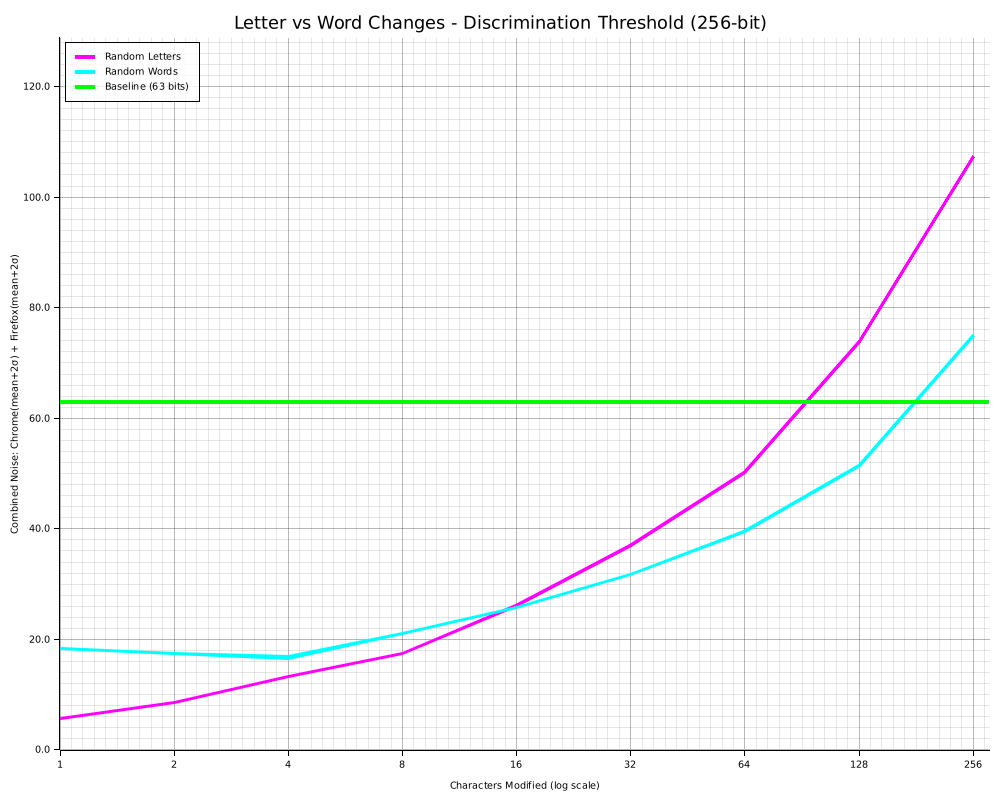
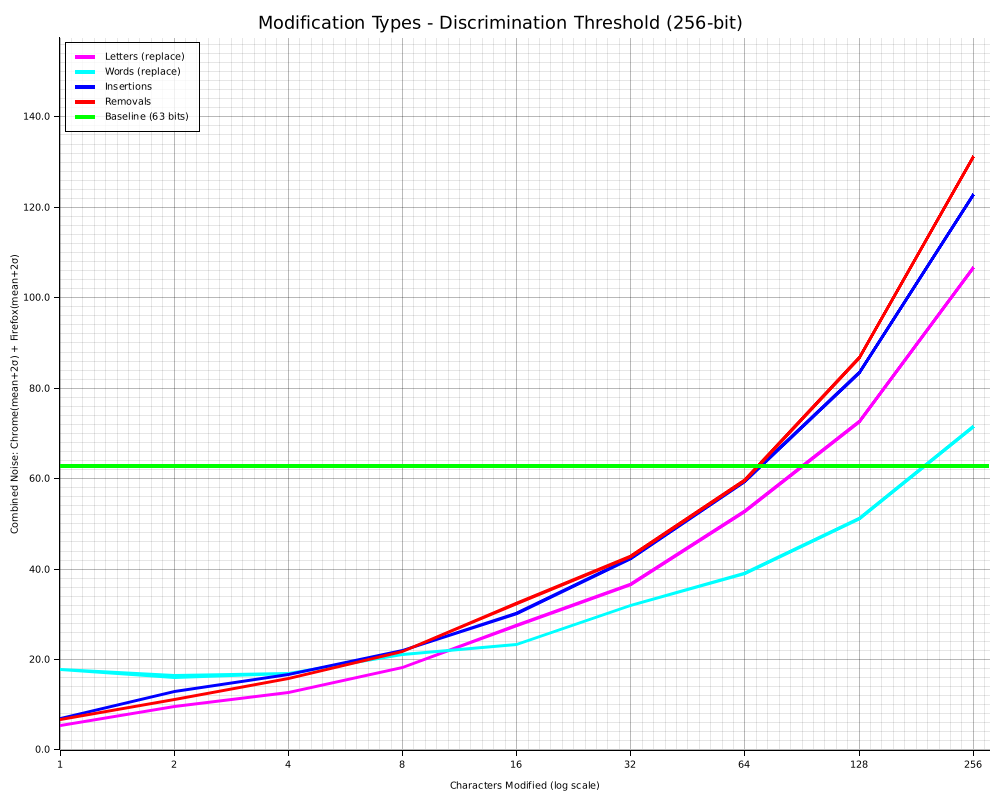
Add insertion and removal modification tests
Compare 4 modification types for nilsimsa discrimination limits:
- Letters (replace): scattered single-char replacements
- Words (replace): concentrated field replacements (2x locality benefit)
- Insertions: random char insertions (most sensitive, ~16 chars at 64-bit)
- Removals: random char deletions (similar to letter replacements)

Insertions cause the most hash change per character, likely because they
shift the entire document structure. Word replacements remain most tolerant.

Changed region(s): [[0.031, 0.0, 0.992, 0.9375]]

diff --git a/src/main.rs b/src/main.rs
@@ -102,6 +102,44 @@ fn main() {
     let word_limit_256 = find_discrimination_limit(&word_chrome_256, &word_firefox_256, baseline_256);
     println!("Safe limit (256-bit, words): ~{} chars\n", word_limit_256);
 
+    // ==================== RANDOM INSERTION TEST ====================
+    println!("============================================================");
+    println!("=== TEST 3: RANDOM INSERTIONS ===");
+    println!("============================================================\n");
+
+    println!("--- 64-bit Random Insert ---");
+    let insert_chrome_64 = run_analysis(&chrome_long, NUM_TRIALS, &mod_counts, "Chrome", ModType::Insert, HashSize::Bit64);
+    let insert_firefox_64 = run_analysis(&firefox_long, NUM_TRIALS, &mod_counts, "Firefox", ModType::Insert, HashSize::Bit64);
+    print_results_table(&insert_chrome_64, &insert_firefox_64, baseline_64);
+    let insert_limit_64 = find_discrimination_limit(&insert_chrome_64, &insert_firefox_64, baseline_64);
+    println!("Safe limit (64-bit, insert): ~{} chars\n", insert_limit_64);
+
+    println!("--- 256-bit Random Insert ---");
+    let insert_chrome_256 = run_analysis(&chrome_long, NUM_TRIALS, &mod_counts, "Chrome", ModType::Insert, HashSize::Bit256);
+    let insert_firefox_256 = run_analysis(&firefox_long, NUM_TRIALS, &mod_counts, "Firefox", ModType::Insert, HashSize::Bit256);
+    print_results_table(&insert_chrome_256, &insert_firefox_256, baseline_256);
+    let insert_limit_256 = find_discrimination_limit(&insert_chrome_256, &insert_firefox_256, baseline_256);
+    println!("Safe limit (256-bit, insert): ~{} chars\n", insert_limit_256);
+
+    // ==================== RANDOM REMOVAL TEST ====================
+    println!("============================================================");
+    println!("=== TEST 4: RANDOM REMOVALS ===");
+    println!("============================================================\n");
+
+    println!("--- 64-bit Random Remove ---");
+    let remove_chrome_64 = run_analysis(&chrome_long, NUM_TRIALS, &mod_counts, "Chrome", ModType::Remove, HashSize::Bit64);
+    let remove_firefox_64 = run_analysis(&firefox_long, NUM_TRIALS, &mod_counts, "Firefox", ModType::Remove, HashSize::Bit64);
+    print_results_table(&remove_chrome_64, &remove_firefox_64, baseline_64);
+    let remove_limit_64 = find_discrimination_limit(&remove_chrome_64, &remove_firefox_64, baseline_64);
+    println!("Safe limit (64-bit, remove): ~{} chars\n", remove_limit_64);
+
+    println!("--- 256-bit Random Remove ---");
+    let remove_chrome_256 = run_analysis(&chrome_long, NUM_TRIALS, &mod_counts, "Chrome", ModType::Remove, HashSize::Bit256);
+    let remove_firefox_256 = run_analysis(&firefox_long, NUM_TRIALS, &mod_counts, "Firefox", ModType::Remove, HashSize::Bit256);
+    print_results_table(&remove_chrome_256, &remove_firefox_256, baseline_256);
+    let remove_limit_256 = find_discrimination_limit(&remove_chrome_256, &remove_firefox_256, baseline_256);
+    println!("Safe limit (256-bit, remove): ~{} chars\n", remove_limit_256);
+
     // ==================== SUMMARY ====================
     println!("============================================================");
     println!("=== SUMMARY ===");
@@ -109,24 +147,23 @@ fn main() {
     println!("                    64-bit      256-bit");
     println!("Random Letters:     ~{:<6}     ~{:<6} chars", letter_limit_64, letter_limit_256);
     println!("Random Words:       ~{:<6}     ~{:<6} chars", word_limit_64, word_limit_256);
-    if word_limit_64 > letter_limit_64 || word_limit_256 > letter_limit_256 {
-        println!("\n=> Word changes show LOCALITY BENEFIT (more tolerant of concentrated changes)");
-    } else if word_limit_64 < letter_limit_64 || word_limit_256 < letter_limit_256 {
-        println!("\n=> Letter changes show better tolerance (no locality benefit)");
-    } else {
-        println!("\n=> No significant difference (nilsimsa treats both similarly)");
-    }
+    println!("Random Inserts:     ~{:<6}     ~{:<6} chars", insert_limit_64, insert_limit_256);
+    println!("Random Removes:     ~{:<6}     ~{:<6} chars", remove_limit_64, remove_limit_256);
 
     // Generate comparison plots
-    generate_comparison_plot(
+    generate_all_comparison_plot(
         &letter_chrome_64, &letter_firefox_64,
         &word_chrome_64, &word_firefox_64,
+        &insert_chrome_64, &insert_firefox_64,
+        &remove_chrome_64, &remove_firefox_64,
         baseline_64, "discrimination_64bit.png", 64
     ).expect("Failed to generate 64-bit plot");
 
-    generate_comparison_plot(
+    generate_all_comparison_plot(
         &letter_chrome_256, &letter_firefox_256,
         &word_chrome_256, &word_firefox_256,
+        &insert_chrome_256, &insert_firefox_256,
+        &remove_chrome_256, &remove_firefox_256,
         baseline_256, "discrimination_256bit.png", 256
     ).expect("Failed to generate 256-bit plot");
 
@@ -134,7 +171,7 @@ fn main() {
 }
 
 #[derive(Clone, Copy)]
-enum ModType { Letter, Word }
+enum ModType { Letter, Word, Insert, Remove }
 
 #[derive(Clone, Copy)]
 enum HashSize { Bit64, Bit256 }
@@ -148,7 +185,12 @@ struct Stats {
 
 fn run_analysis(input: &str, num_trials: usize, mod_counts: &[usize], name: &str,
                 mod_type: ModType, hash_size: HashSize) -> Vec<Stats> {
-    let type_str = match mod_type { ModType::Letter => "letter", ModType::Word => "word" };
+    let type_str = match mod_type {
+        ModType::Letter => "letter",
+        ModType::Word => "word",
+        ModType::Insert => "insert",
+        ModType::Remove => "remove",
+    };
     println!("  Analyzing {} ({})...", name, type_str);
 
     let mut results = Vec::with_capacity(mod_counts.len());
@@ -160,6 +202,8 @@ fn run_analysis(input: &str, num_trials: usize, mod_counts: &[usize], name: &str
             let modified = match mod_type {
                 ModType::Letter => randomly_modify_letters(input, target_chars),
                 ModType::Word => randomly_modify_words(input, target_chars),
+                ModType::Insert => randomly_insert_chars(input, target_chars),
+                ModType::Remove => randomly_remove_chars(input, target_chars),
             };
 
             let dist = match hash_size {
@@ -212,9 +256,11 @@ fn find_discrimination_limit(chrome: &[Stats], firefox: &[Stats], baseline: u32)
     chrome.last().unwrap().num_modifications
 }
 
-fn generate_comparison_plot(
+fn generate_all_comparison_plot(
     letter_chrome: &[Stats], letter_firefox: &[Stats],
     word_chrome: &[Stats], word_firefox: &[Stats],
+    insert_chrome: &[Stats], insert_firefox: &[Stats],
+    remove_chrome: &[Stats], remove_firefox: &[Stats],
     baseline: u32, filename: &str, bits: u32
 ) -> Result<(), Box<dyn std::error::Error>> {
     let root = BitMapBackend::new(filename, (1000, 800)).into_drawing_area();
@@ -225,12 +271,14 @@ fn generate_comparison_plot(
     // Calculate max Y from all data
     let all_combined: Vec<f64> = letter_chrome.iter().zip(letter_firefox.iter())
         .chain(word_chrome.iter().zip(word_firefox.iter()))
+        .chain(insert_chrome.iter().zip(insert_firefox.iter()))
+        .chain(remove_chrome.iter().zip(remove_firefox.iter()))
         .map(|(c, f)| (c.mean + 2.0 * c.stdev) + (f.mean + 2.0 * f.stdev))
         .collect();
     let max_y = all_combined.iter().cloned().fold(baseline as f64, f64::max) * 1.2;
 
     let mut chart = ChartBuilder::on(&root)
-        .caption(format!("Letter vs Word Changes - Discrimination Threshold ({}-bit)", bits), ("sans-serif", 22))
+        .caption(format!("Modification Types - Discrimination Threshold ({}-bit)", bits), ("sans-serif", 22))
         .margin(10)
         .x_label_area_size(40)
         .y_label_area_size(50)
@@ -242,21 +290,37 @@ fn generate_comparison_plot(
         .x_label_formatter(&|x| format!("{}", (2.0_f64).powf(*x) as u32))
         .draw()?;
 
-    // Letter changes combined noise (solid magenta)
+    // Letter changes (magenta)
     let letter_combined: Vec<_> = letter_chrome.iter().zip(letter_firefox.iter())
         .map(|(c, f)| ((c.num_modifications as f64).log2(),
                        (c.mean + 2.0 * c.stdev) + (f.mean + 2.0 * f.stdev)))
         .collect();
     chart.draw_series(LineSeries::new(letter_combined.iter().cloned(), MAGENTA.stroke_width(3)))?
-        .label("Random Letters").legend(|(x, y)| PathElement::new(vec![(x, y), (x + 20, y)], MAGENTA.stroke_width(3)));
+        .label("Letters (replace)").legend(|(x, y)| PathElement::new(vec![(x, y), (x + 20, y)], MAGENTA.stroke_width(3)));
 
-    // Word changes combined noise (solid cyan)
+    // Word changes (cyan)
     let word_combined: Vec<_> = word_chrome.iter().zip(word_firefox.iter())
         .map(|(c, f)| ((c.num_modifications as f64).log2(),
                        (c.mean + 2.0 * c.stdev) + (f.mean + 2.0 * f.stdev)))
         .collect();
     chart.draw_series(LineSeries::new(word_combined.iter().cloned(), CYAN.stroke_width(3)))?
-        .label("Random Words").legend(|(x, y)| PathElement::new(vec![(x, y), (x + 20, y)], CYAN.stroke_width(3)));
+        .label("Words (replace)").legend(|(x, y)| PathElement::new(vec![(x, y), (x + 20, y)], CYAN.stroke_width(3)));
+
+    // Insert changes (blue)
+    let insert_combined: Vec<_> = insert_chrome.iter().zip(insert_firefox.iter())
+        .map(|(c, f)| ((c.num_modifications as f64).log2(),
+                       (c.mean + 2.0 * c.stdev) + (f.mean + 2.0 * f.stdev)))
+        .collect();
+    chart.draw_series(LineSeries::new(insert_combined.iter().cloned(), BLUE.stroke_width(3)))?
+        .label("Insertions").legend(|(x, y)| PathElement::new(vec![(x, y), (x + 20, y)], BLUE.stroke_width(3)));
+
+    // Remove changes (red)
+    let remove_combined: Vec<_> = remove_chrome.iter().zip(remove_firefox.iter())
+        .map(|(c, f)| ((c.num_modifications as f64).log2(),
+                       (c.mean + 2.0 * c.stdev) + (f.mean + 2.0 * f.stdev)))
+        .collect();
+    chart.draw_series(LineSeries::new(remove_combined.iter().cloned(), RED.stroke_width(3)))?
+        .label("Removals").legend(|(x, y)| PathElement::new(vec![(x, y), (x + 20, y)], RED.stroke_width(3)));
 
     // Baseline threshold
     chart.draw_series(LineSeries::new(
@@ -353,6 +417,39 @@ fn randomly_modify_words(input: &str, target_chars: usize) -> String {
             chars[i] = rng.gen_range(b'a'..=b'z') as char;
         }
         chars_changed += field_len;
+    }
+
+    chars.into_iter().collect()
+}
+
+/// Randomly insert N characters at random positions
+fn randomly_insert_chars(input: &str, n: usize) -> String {
+    let mut rng = rand::thread_rng();
+    let mut chars: Vec<char> = input.chars().collect();
+
+    for _ in 0..n {
+        let idx = rng.gen_range(0..=chars.len());
+        let new_char = rng.gen_range(b'a'..=b'z') as char;
+        chars.insert(idx, new_char);
+    }
+
+    chars.into_iter().collect()
+}
+
+/// Randomly remove N characters from random positions (skip structural chars)
+fn randomly_remove_chars(input: &str, n: usize) -> String {
+    let mut rng = rand::thread_rng();
+    let mut chars: Vec<char> = input.chars().collect();
+
+    let mut removed = 0;
+    while removed < n && chars.len() > 1 {
+        let idx = rng.gen_range(0..chars.len());
+        // Skip structural characters
+        if matches!(chars[idx], ',' | '"' | ':' | '[' | ']' | '{' | '}') {
+            continue;
+        }
+        chars.remove(idx);
+        removed += 1;
     }
 
     chars.into_iter().collect()
